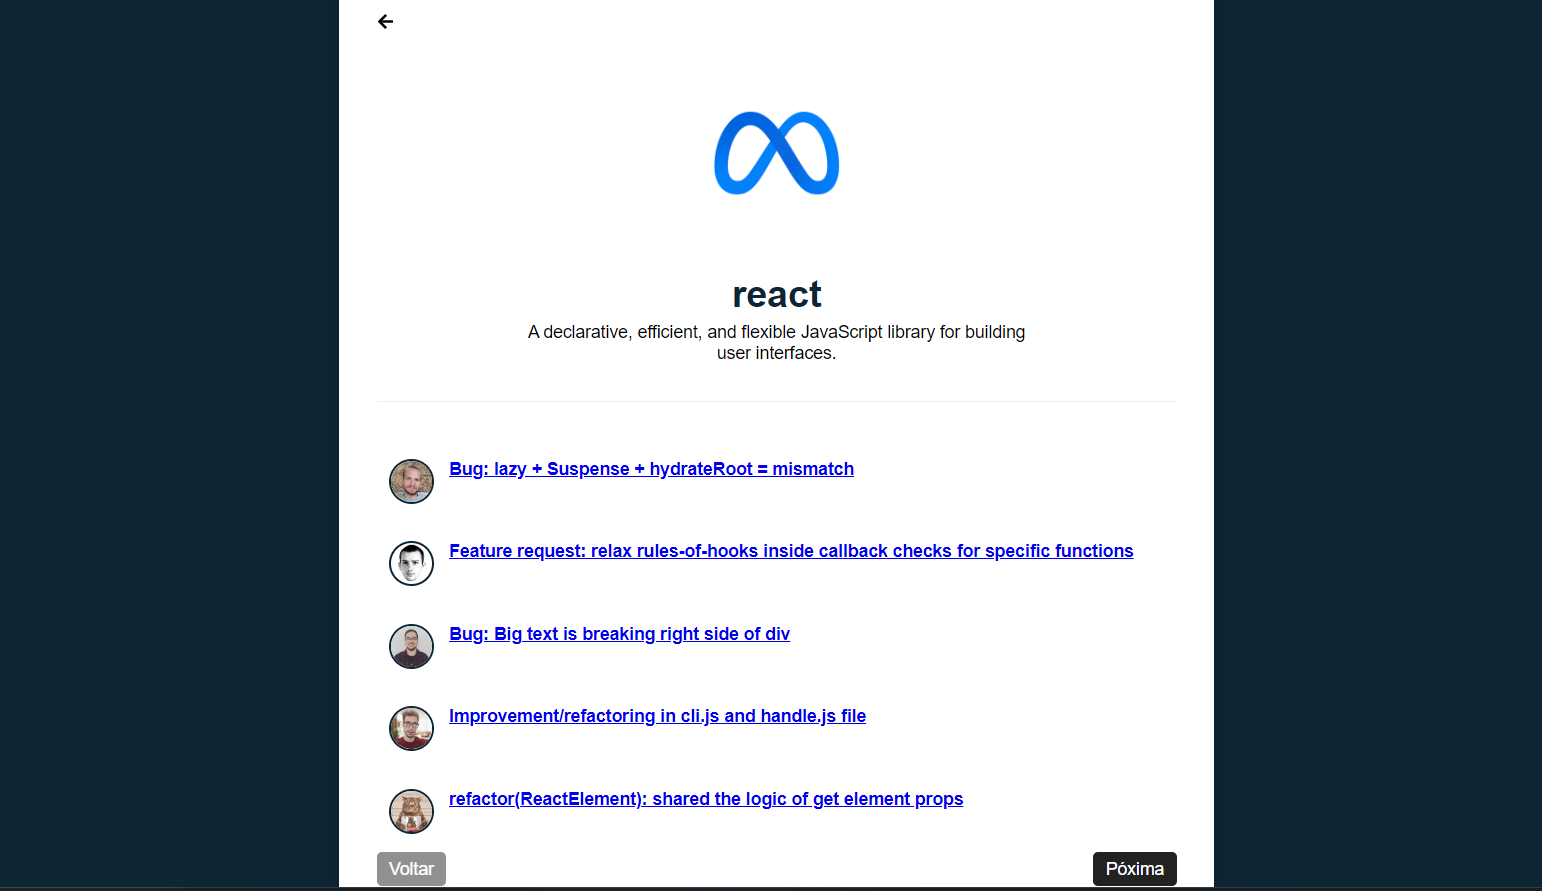
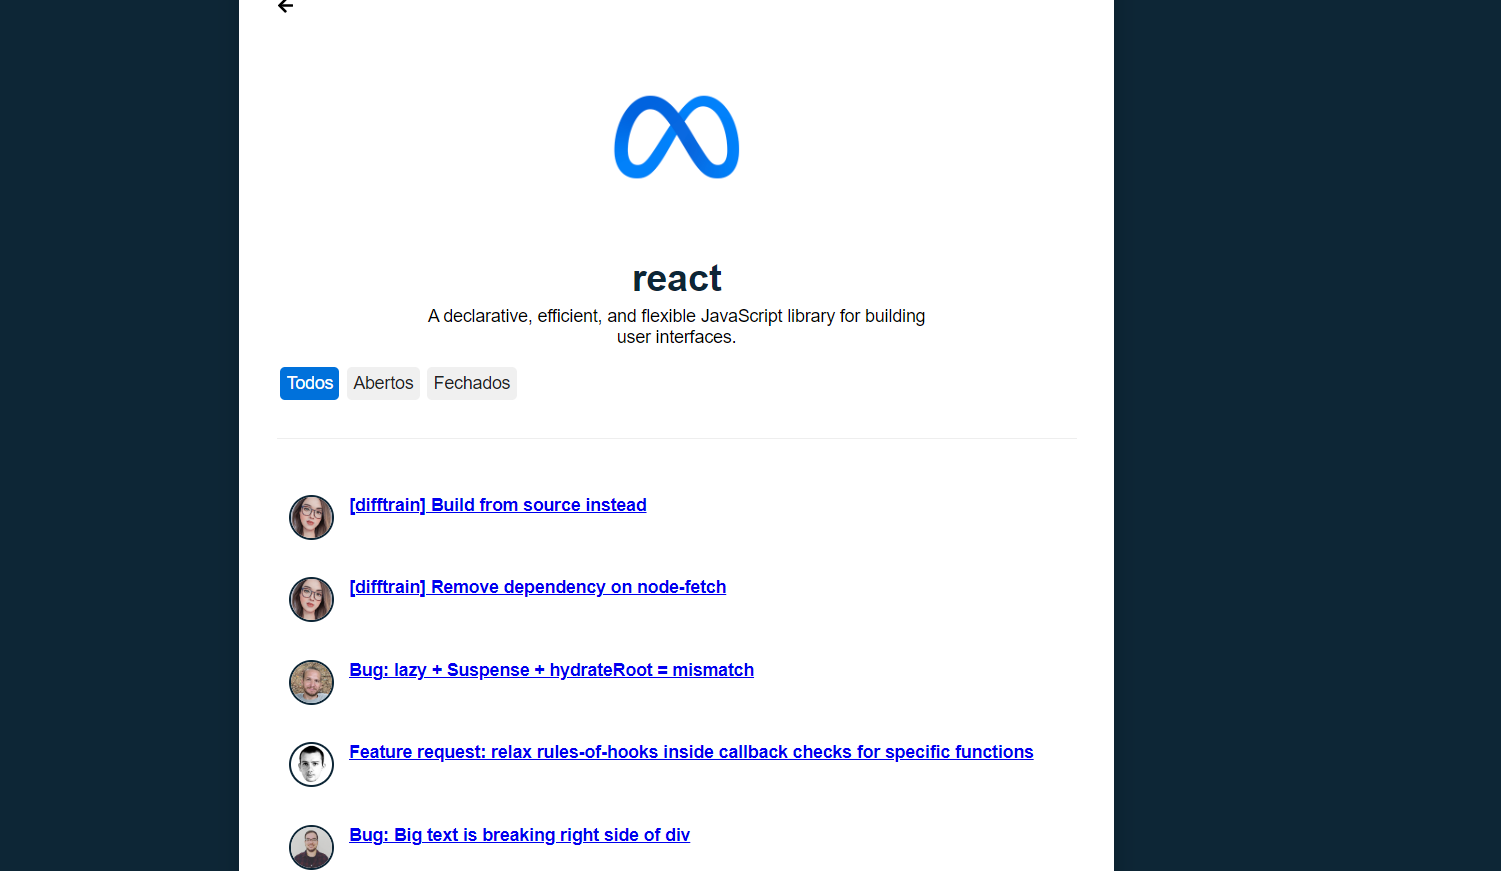
update

Changed region(s): [[0.0, 0.0, 1.0, 1.0], [0.2758, 0.31, 0.6742, 0.403], [0.3984, 0.093, 0.5516, 0.217]]

diff --git a/src/pages/Repository/index.jsx b/src/pages/Repository/index.jsx
@@ -7,6 +7,7 @@ import {
   BackButton,
   IssuesList,
   PageAction,
+  FilterList,
 } from './style'
 import api from "../../services/api"
 
@@ -16,6 +17,12 @@ export default function Repository() {
   const [page, setPage] = React.useState(1)
   const [issues, setIssues] = React.useState([])
   const [loading, setLoading] = React.useState(true)
+  const [filters, setFilters] = React.useState([
+    { state: 'all', label: 'Todos', active: false },
+    { state: 'open', label: 'Abertos', active: false },
+    { state: 'closed', label: 'Fechados', active: true },
+  ])
+  const [activeItem, setActiveItem] = React.useState(0)
   const { reponame } = useParams()
 
   // Methods
@@ -27,10 +34,9 @@ export default function Repository() {
 
   //  Effect
   React.useEffect(() => {
-
     api.get(`repos/${reponame}/issues`, {
       params: {
-        state: 'open',
+        state: filters[activeItem].state,
         page,
         per_page: 5,
       }
@@ -38,12 +44,12 @@ export default function Repository() {
       .then(({ data }) => setIssues(data))
       .catch(({ message }) => console.error(message))
 
-  }, [page])
+  }, [page, activeItem, filters])
 
   React.useEffect(() => {
     api.get(`repos/${reponame}/issues`, {
       params: {
-        state: 'open',
+        state: filters[activeItem].state,
         per_page: 5,
       }
     })
@@ -55,7 +61,7 @@ export default function Repository() {
       .then(() => setLoading(false))
       .catch(({ message }) => console.error(message))
 
-  }, [reponame])
+  }, [reponame, activeItem, filters])
 
   //  Render
   return (
@@ -76,10 +82,22 @@ export default function Repository() {
             <p>{repository.description}</p>
           </Owner>
 
+          <FilterList active={activeItem}>
+            {filters.map((filter, index) => (
+              <button
+                type="button"
+                key={filter.label}
+                onClick={() => { setActiveItem(index) }}
+              >
+                {filter.label}
+              </button>
+            ))}
+          </FilterList>
+
           <IssuesList>
 
             {issues.length <= 0 ?
-              <span>Não possui Issues abertas</span>
+              <h1>Este repositório não possui Issues!</h1>
               :
               issues?.map((issue) => (
                 <li key={issue?.id}>

diff --git a/src/pages/Repository/style.js b/src/pages/Repository/style.js
@@ -48,6 +48,13 @@ export const IssuesList = styled.ul`
   border-top: 1px solid #eee;
   list-style: none;
 
+    h1{
+      margin: 40px auto;
+      text-align: center;
+      font-size: 20px;
+      color: #0071DB;
+    }
+
     li{
       display: flex;
       padding: 15px 10px;
@@ -108,7 +115,7 @@ export const PageAction = styled.div`
     button{
       outline: 0;
       border: 0;
-      background: #222;
+      background: #0071DB;
       color: #FFF;
       padding: 5px 10px;
       border-radius: 4px;
@@ -119,3 +126,19 @@ export const PageAction = styled.div`
         }
     }
 `
+
+export const FilterList = styled.div`
+  margin: 15px 0;
+    button{
+      outline:0;
+      border:0;
+      border-radius: 4px;
+      padding: 5px;
+      margin: 0 3px;
+
+        &:nth-child(${props => props.active + 1}){
+          background: #0071DB;
+          color: #FFFF;
+        }
+    }
+`;
